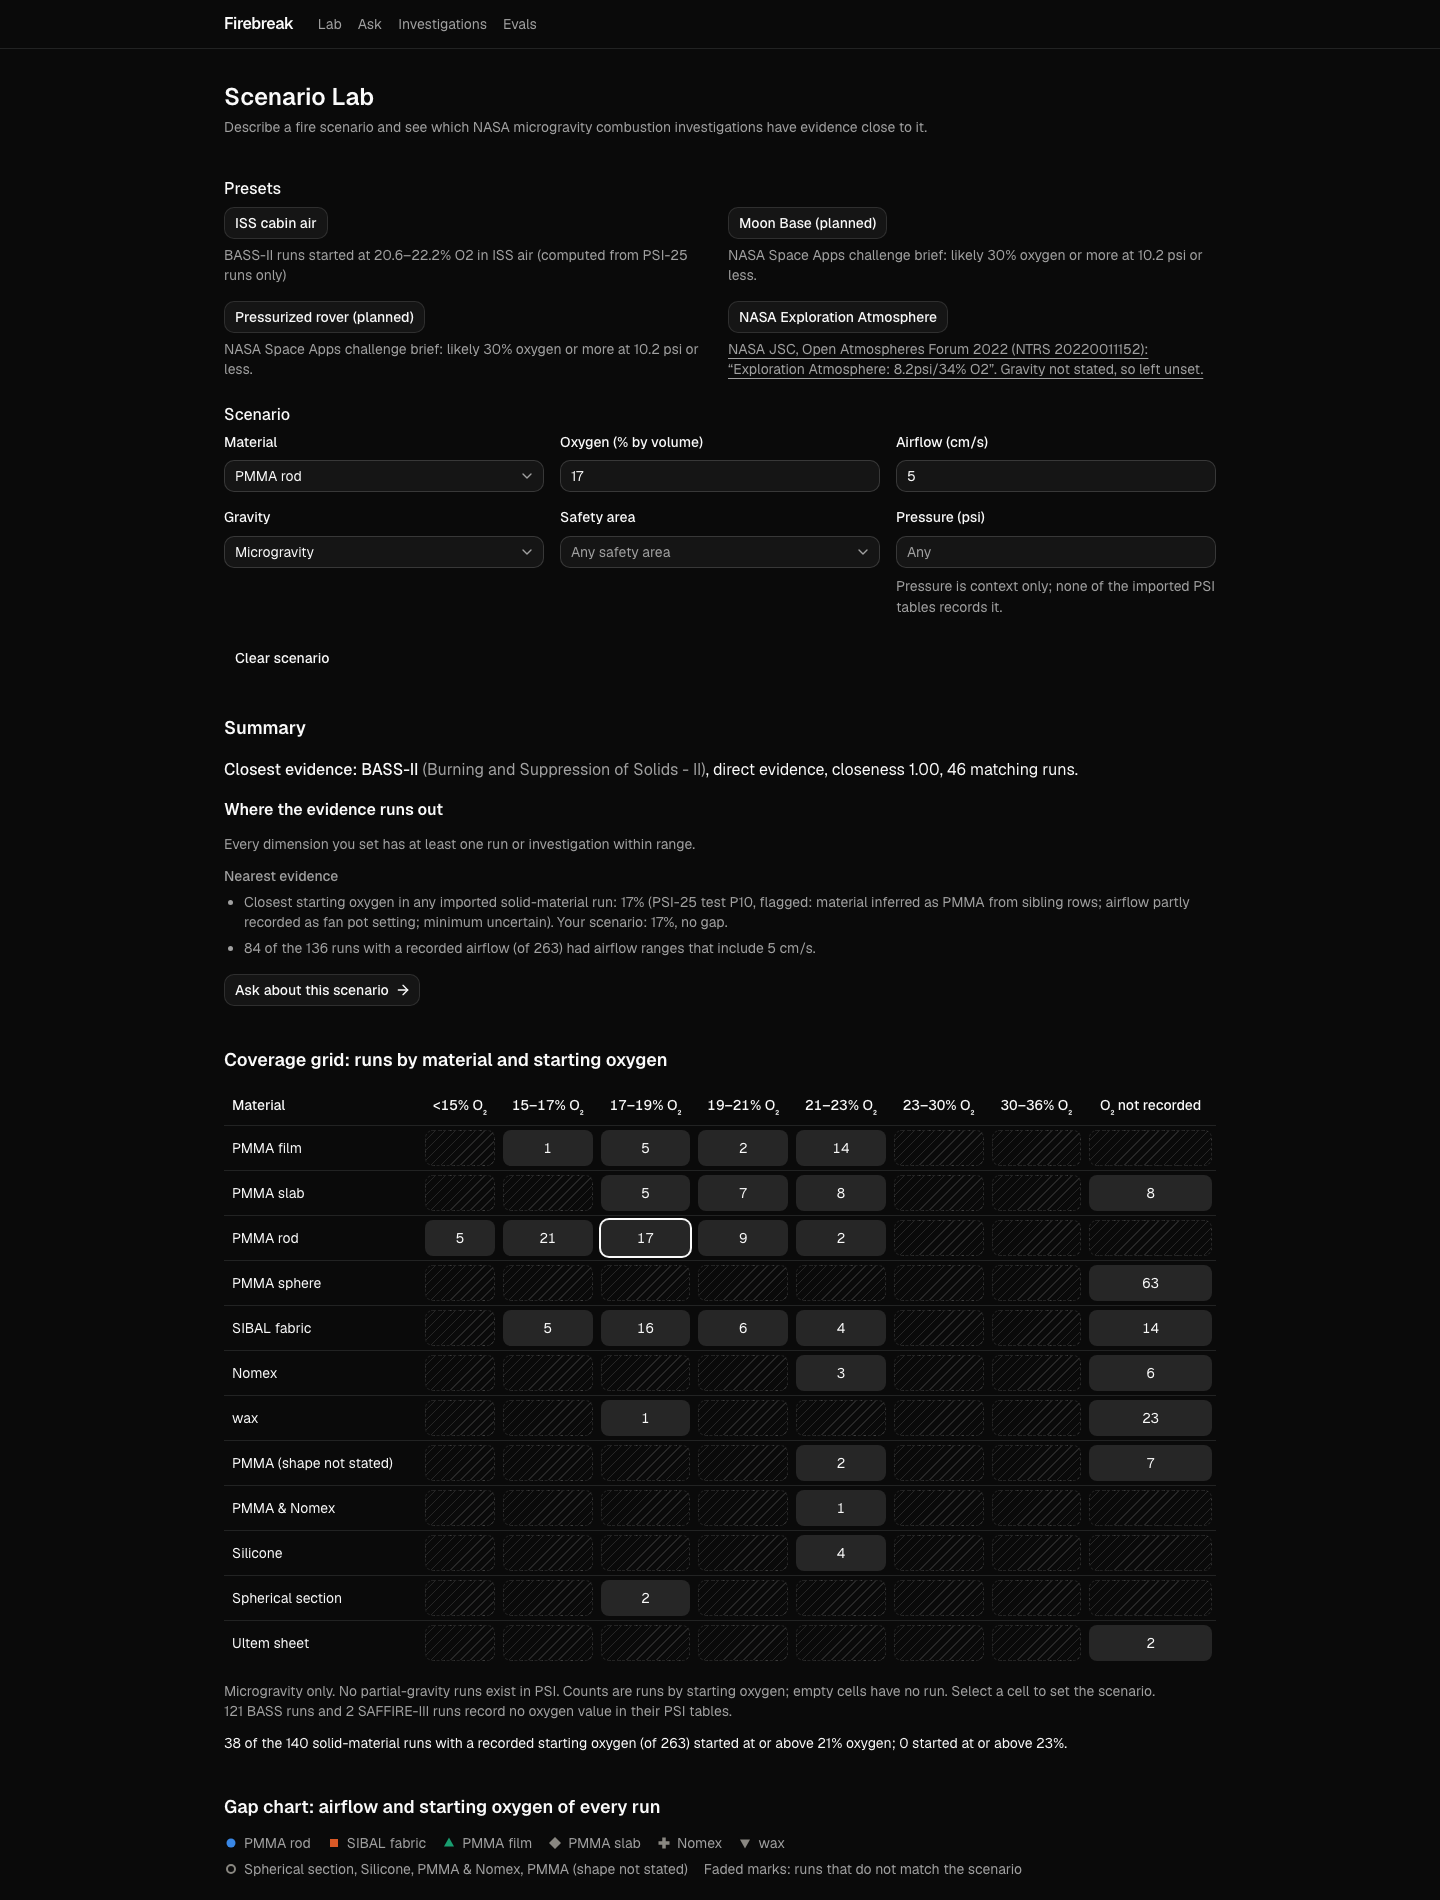
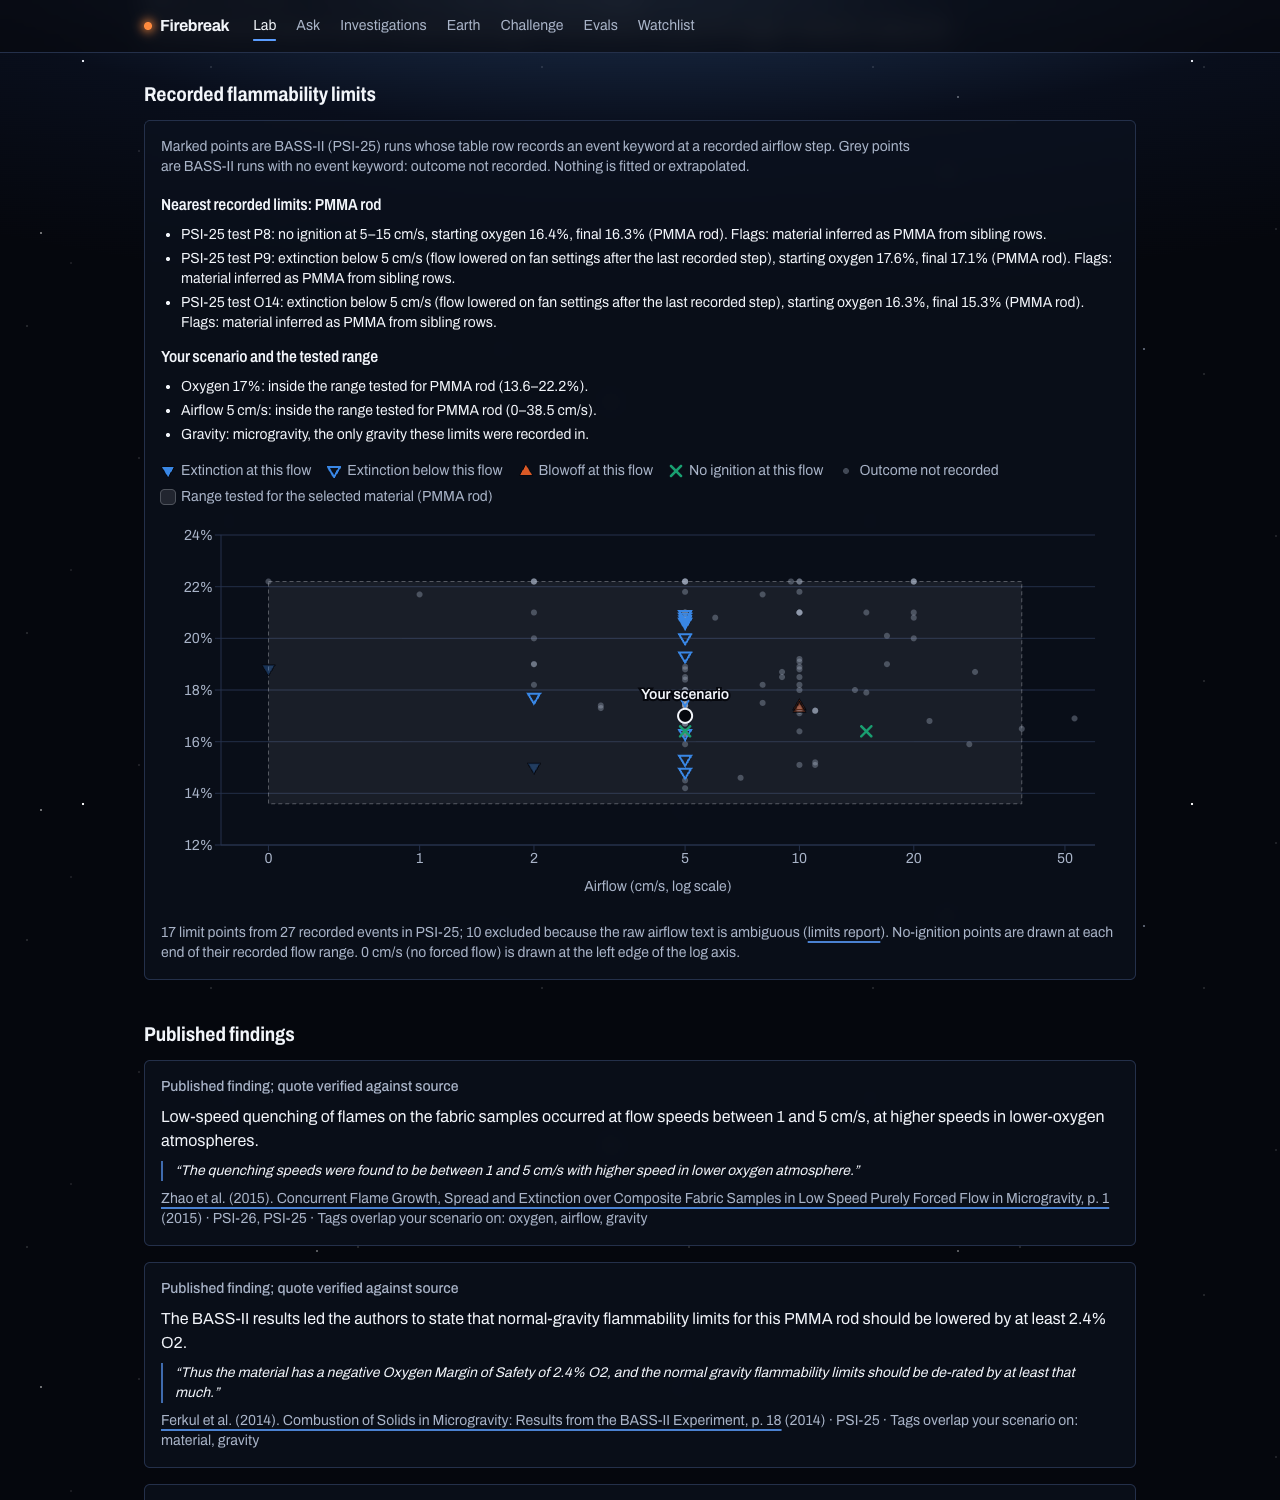
Update README for submission

Changed region(s): [[0.0938, 0.0, 0.875, 1.0]]

diff --git a/README.md b/README.md
@@ -11,14 +11,20 @@ Firebreak makes that kind of gap visible. Pick a habitat scenario, and it ranks 
 
 ## What it does
 
-- **Scenario Lab** (`/lab`): set material, oxygen, airflow and gravity, or use a preset ("ISS cabin air", "Moon Base (planned)", "Pressurized rover (planned)", "NASA Exploration Atmosphere"). Investigations are ranked with a per-dimension breakdown, and the matching runs light up on a chart. Pressure is context only; the imported run tables do not record it.
+- **Scenario Lab** (`/lab`): set material, oxygen, airflow and gravity, or use a preset ("ISS cabin air", "Moon Base (planned)", "Pressurized rover (planned)", "NASA Exploration Atmosphere", "Spacesuit (EVA)"). Investigations are ranked with a per-dimension breakdown, and the matching runs light up on a chart. Pressure is context only; the imported run tables do not record it.
 - **Coverage grid**: material × oxygen band, every cell a count of real tests. The empty cells are the story. A separate column shows runs whose source tables never recorded oxygen at all.
 - **Where the evidence runs out**: plain sentences computed from the data, like "No solid-material run with a recorded starting oxygen (140 of 263) started above 22.2%; your scenario is 30%." No risk scores, no verdicts.
 - **Recorded flammability limits**: BASS-II extinction, blowoff and no-ignition records, with nearest limits and the material's tested ranges. Of 27 event candidates, 17 are included and 10 excluded with reasons in the [limits report](pipeline/limits_report.md). Bounds such as "below 5 cm/s" stay bounds; nothing is fitted or extrapolated.
 - **Published findings**: up to three findings selected from nine entries across six NTRS papers. Each quote is checked as an exact substring of its corpus source, then shown with its source link and overlapping tags. Any tag can match, so a fabric finding can appear for a PMMA scenario through oxygen, airflow or gravity overlap.
 - **What varied and what was held fixed**: dimensions computed from the imported runs, with missing values and flags visible. **Space vs Earth** shows Saffire-II's recorded microgravity and 1-g burn lengths with a partial-gravity caveat.
 - **Ask the evidence** (`/ask`): questions are answered only from NASA text. Every quote is checked word for word against its source before it's shown. If the sources don't cover it, the app says so (status `insufficient_evidence`) instead of answering.
-- **Scorecard** (`/evals`): saved results from a fixed question set, failures included. The committed report predates the paper corpus expansion; a new evaluation is still pending.
+- **Scorecard** (`/evals`): saved results from a fixed set of 28 golden questions, failures included. In the latest run, 27 of 28 questions got the expected result, 90 of 90 citations were verified word for word, and 6 of 7 unanswerable questions were declined. The one miss (`none-saffire4-6-results`, which should have been declined but was answered) is shown on the page, not tuned away.
+- **Claim checks** (`/evals`): the numbers we state in the pitch and on the site, recomputed from the shipped data when the site is built, each shown with its expected value, actual value and "matches" or "does not match".
+- **Evidence Gap Atlas** (landing page): every Lab preset against every material family that has a recorded starting oxygen, using the Lab's own matching. 6 of 35 combinations have at least one matching imported flight run; every cell links to the Lab with that scenario.
+- **Hardware watchlist** (`/watchlist`): ISS hardware that NASA's NESC report ([NTRS 20260003925](https://ntrs.nasa.gov/citations/20260003925)) assesses for higher-oxygen cabins, each with a verbatim quote from the report beside the imported PSI runs for its material.
+- **Earth applications** (`/earth`): how microgravity fire research relates to fire safety on Earth, using quoted brief text, PSI records and NASA Spinoff pages only.
+- **Challenge mapping** (`/brief`): the challenge brief's own words, matched to where Firebreak addresses each one.
+- **Printable report** (`/lab/report`): the current Lab scenario as a print-ready page you can save as a PDF.
 - **Investigations** (`/investigations`): all 24 PSI combustion investigations, filterable by safety area (prevention, detection, suppression, fundamental).
 - **Download** the cleaned dataset as CSV or JSON, with every data-quality flag attached.
 
@@ -42,7 +48,7 @@ Raw NASA files live unmodified in `data/raw/`. The importers never correct a val
 
 ## Screenshots
 
-Captured from the deployed Lab on 14 November 2026 with headless Chrome (1440 × 1900).
+Captured from the deployed site on 15 November 2026 with headless Chrome at 1280 px wide.
 
 <details>
 <summary>PMMA rod demo: recorded limits and published findings</summary>
@@ -59,6 +65,33 @@ Captured from the deployed Lab on 14 November 2026 with headless Chrome (1440 ×
 [Open this scenario](https://nasa-2026-nine.vercel.app/lab?o2=30&pressure=10.2&gravity=lunar#limits-heading)
 
 ![Moon Base showing oxygen and gravity refusal reasons, plus FM2 and atmosphere findings](docs/screenshots/lab-moon-base.png)
+
+</details>
+
+<details>
+<summary>Evidence Gap Atlas: every preset against every material</summary>
+
+[Open the atlas](https://nasa-2026-nine.vercel.app/#atlas-heading)
+
+![Evidence Gap Atlas: 6 of 35 atmosphere and material combinations have a matching imported flight run](docs/screenshots/atlas.png)
+
+</details>
+
+<details>
+<summary>Hardware watchlist: ISS hardware assessed in the NESC report</summary>
+
+[Open the watchlist](https://nasa-2026-nine.vercel.app/watchlist)
+
+![Hardware watchlist with verbatim NESC report quotes beside PSI flight evidence](docs/screenshots/watchlist.png)
+
+</details>
+
+<details>
+<summary>Claim checks and scorecard</summary>
+
+[Open the scorecard](https://nasa-2026-nine.vercel.app/evals#claim-checks)
+
+![Claim checks table, all 11 matching, above the scorecard questions](docs/screenshots/evals.png)
 
 </details>
 
